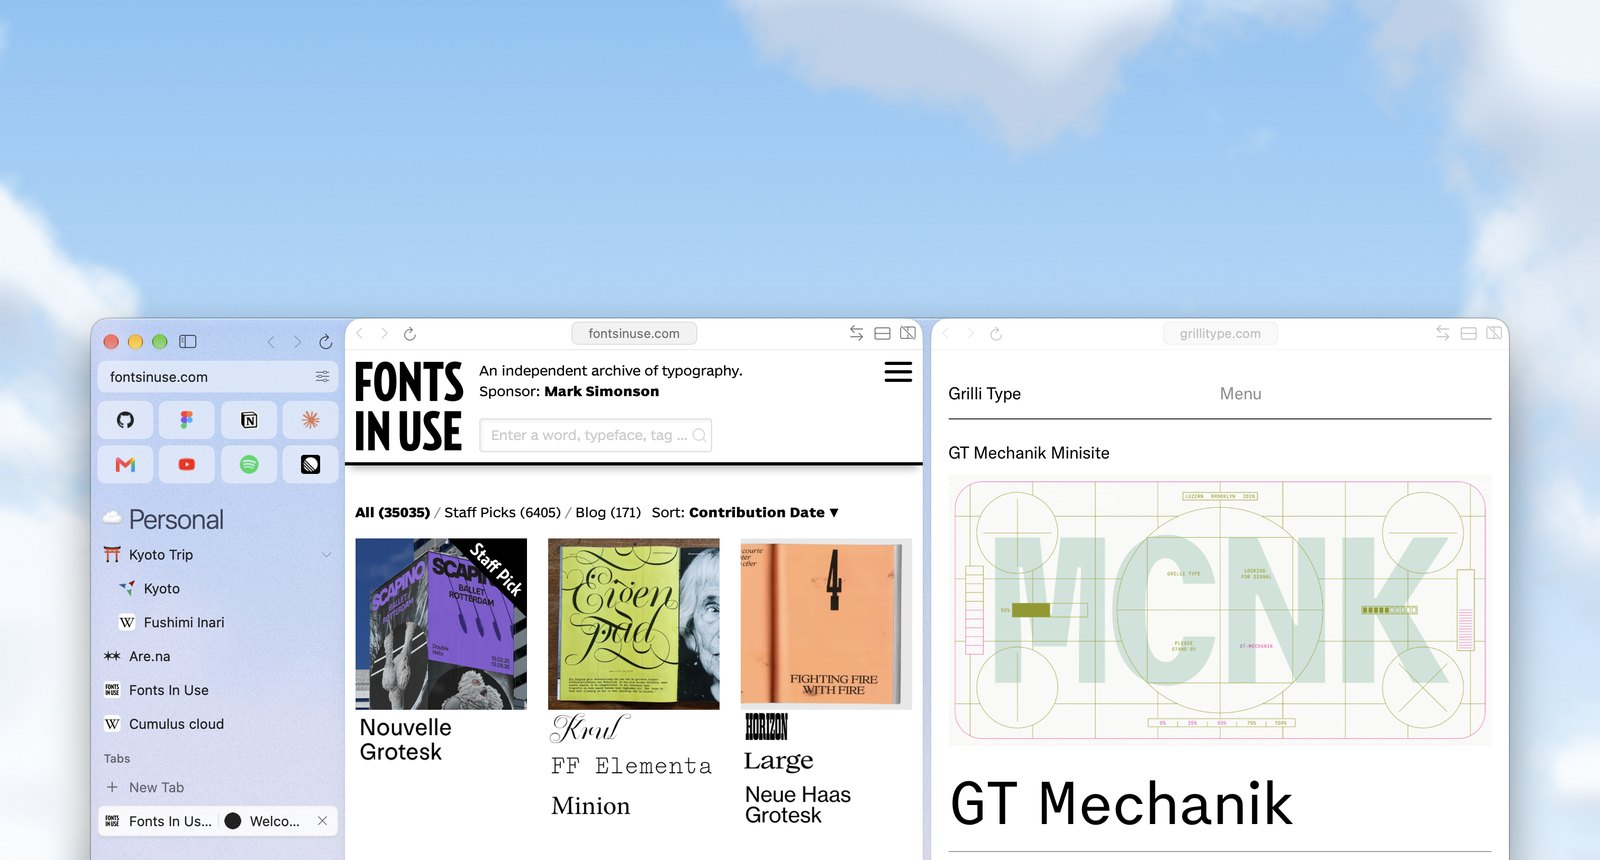
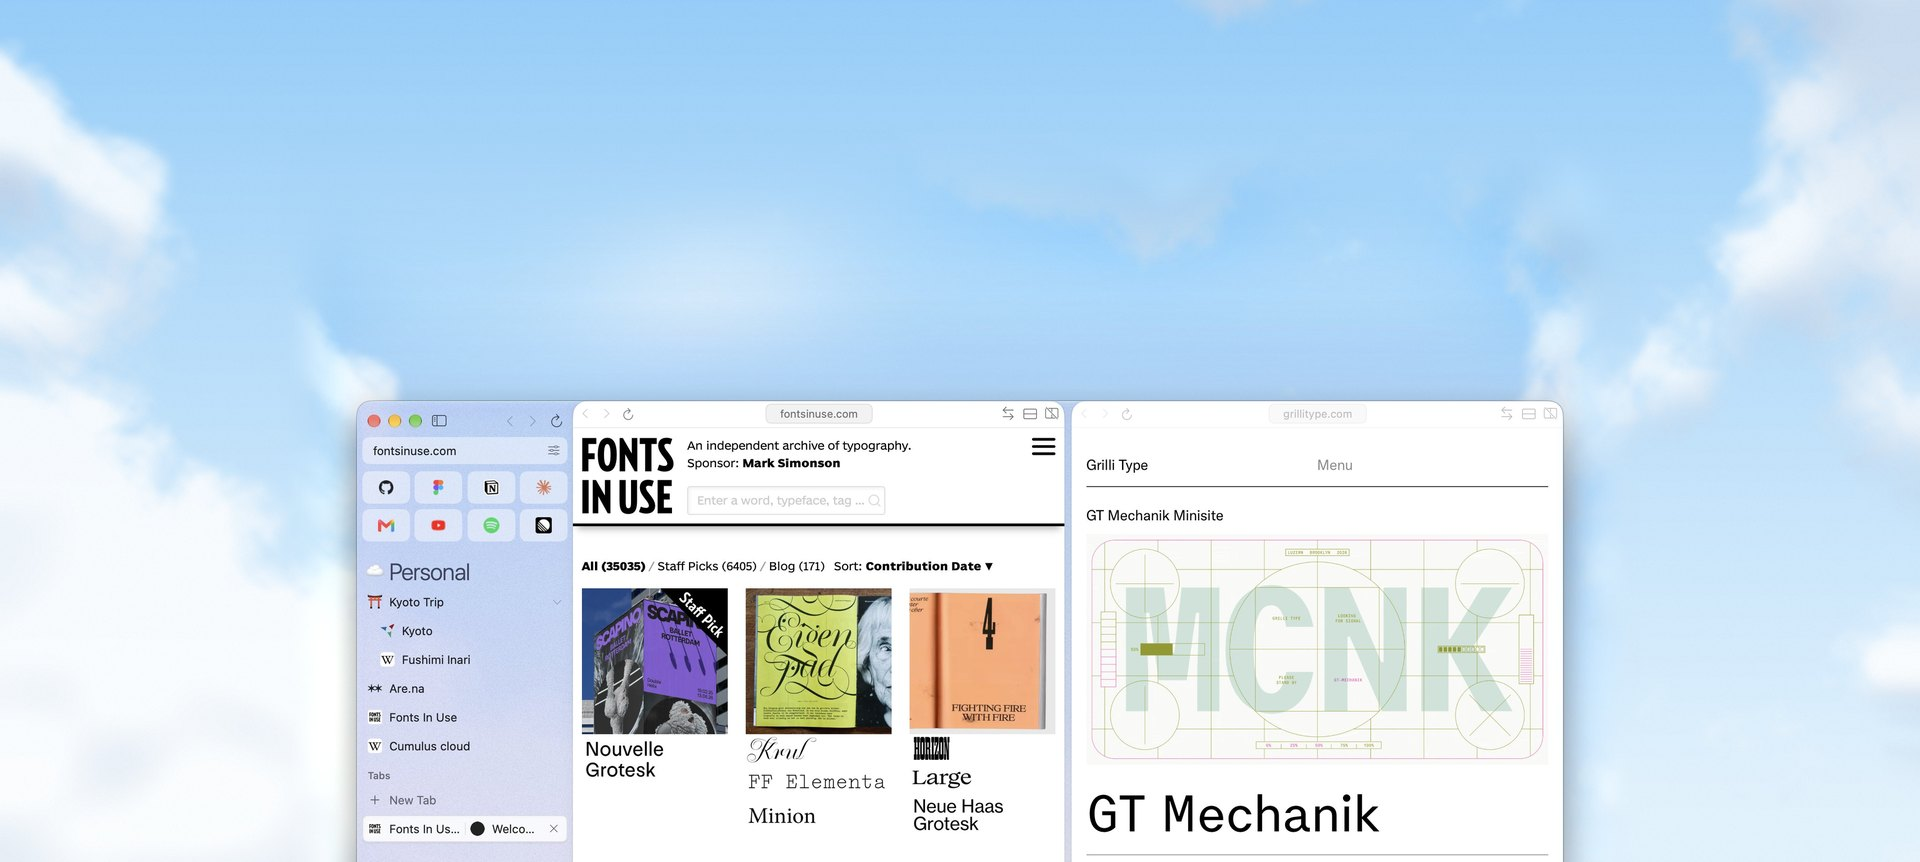
feat: the site is a size smaller throughout, the hero shows more sky around a smaller window, and the size chart sits beside its words

diff --git a/site/index.html b/site/index.html
@@ -22,7 +22,7 @@
 <meta name="twitter:image" content="https://zigzagbrowser.com/assets/og.png">
 <script type="application/ld+json">{"@context": "https://schema.org", "@type": "SoftwareApplication", "name": "Zigzag", "applicationCategory": "BrowserApplication", "operatingSystem": "macOS 15.4 or later", "description": "Zigzag is a fast, free web browser for Mac with spaces, a sidebar, split view and peek. Coming from Arc? Bring your spaces and pinned tabs over in one click.", "url": "https://zigzagbrowser.com/", "downloadUrl": "https://zigzagbrowser.com/download/", "image": "https://zigzagbrowser.com/assets/icon-512.png", "offers": {"@type": "Offer", "price": "0", "priceCurrency": "USD"}, "author": {"@type": "Person", "name": "Zigao Wang", "url": "https://zigao.wang"}, "license": "https://www.apache.org/licenses/LICENSE-2.0", "sameAs": ["https://github.com/ZigaoWang/zigzag"]}</script>
 <script type="application/ld+json">{"@context": "https://schema.org", "@type": "FAQPage", "mainEntity": [{"@type": "Question", "name": "Is Zigzag just an Arc copy?", "acceptedAnswer": {"@type": "Answer", "text": "Arc showed a lot of people that a browser could feel good, and Zigzag is openly inspired by that. But it’s built from scratch, on Safari’s engine instead of Chrome’s, with its own design, and things Arc never had: tabs that tidy themselves, built in ad blocking, and a password manager that imports from any browser. Zigzag isn’t affiliated with The Browser Company."}}, {"@type": "Question", "name": "Will Zigzag shut down like Arc?", "acceptedAnswer": {"@type": "Answer", "text": "It can’t be switched off. There’s no account, and the only server is the update feed. If it went away, Zigzag would keep working on your Mac. Security updates for the engine come straight from Apple with macOS."}}, {"@type": "Question", "name": "Do I need an account?", "acceptedAnswer": {"@type": "Answer", "text": "No. Download it and go."}}, {"@type": "Question", "name": "Is Zigzag finished?", "acceptedAnswer": {"@type": "Answer", "text": "Not yet. It’s in beta, which means it works well for everyday browsing, but some things are still being polished. Updates install automatically, so it keeps getting better on its own."}}, {"@type": "Question", "name": "Is it free?", "acceptedAnswer": {"@type": "Answer", "text": "Yes."}}, {"@type": "Question", "name": "Can I bring my stuff from Arc?", "acceptedAnswer": {"@type": "Answer", "text": "Yes, in one click: spaces, pinned tabs, Favorites, history, and passwords. Chrome, Safari, Dia, Edge, Brave, Vivaldi, Opera, Firefox, and Zen work too."}}, {"@type": "Question", "name": "Does it work with Chrome extensions?", "acceptedAnswer": {"@type": "Answer", "text": "Most popular ones, installed straight from the Chrome Web Store. Some can’t work outside Chrome, and Zigzag tells you upfront instead of breaking silently."}}, {"@type": "Question", "name": "Why Safari’s engine?", "acceptedAnswer": {"@type": "Answer", "text": "It’s already on your Mac, so Zigzag doesn’t have to ship one, and Apple fixes its security issues in macOS updates."}}, {"@type": "Question", "name": "Is my data private?", "acceptedAnswer": {"@type": "Answer", "text": "Yes. There’s no account, no analytics and no telemetry, and nothing about how you browse is sent to me. Zigzag checks zigzagbrowser.com once a day for updates, sending only its version. Passwords live in your Mac’s Keychain and sync only through your own iCloud. Everything Zigzag connects to on its own is listed in the README on GitHub."}}, {"@type": "Question", "name": "Is Zigzag open source?", "acceptedAnswer": {"@type": "Answer", "text": "Yes. The code is under the Apache License 2.0, on GitHub. Read it, build it, fork it. The Zigzag name and icon aren’t part of the license, so a fork needs its own."}}, {"@type": "Question", "name": "Which Macs does it run on?", "acceptedAnswer": {"@type": "Answer", "text": "macOS 15.4 or later."}}]}</script>
-<link rel="stylesheet" href="/assets/site.css?v=1796500000">
+<link rel="stylesheet" href="/assets/site.css?v=1796700000">
 </head>
 <body>
 <header class="hero">
@@ -34,7 +34,7 @@
   <div class="hero-text">
     <h1 class="tag">Feels great. Weighs nothing.</h1>
     <p class="sub">The lightweight browser for Mac. Free and open source.</p>
-    <div class="actions"><a class="button" href="/download">Download for Mac</a><a class="text-link" href="https://github.com/ZigaoWang/zigzag">Read the source</a></div>
+    <div class="actions"><a class="button" href="/download">Download for Mac</a><a class="text-link" href="https://github.com/ZigaoWang/zigzag">View on GitHub</a></div>
   </div>
 </header>
 <main>
@@ -75,8 +75,11 @@
   </section>
 
   <section class="weight">
+    <div class="weight-text">
     <h2>The lightweight browser.</h2>
     <p class="lede">Zigzag doesn’t ship its own engine. It uses the WebKit that’s already part of macOS, so the whole app is 17 MB.</p>
+    <p class="note">Size of each app in Applications, measured on one Mac in November 2026.</p>
+    </div>
     <ul class="bars">
       <li class="us"><span class="n"><img src="/assets/apps/zigzag.png" width="24" height="24" alt="">Zigzag</span><span class="track"><span class="fill" style="--w:1.2%"></span></span><span class="mb">17 MB</span></li>
       <li><span class="n"><img src="/assets/apps/orion.png" width="24" height="24" alt="">Orion</span><span class="track"><span class="fill" style="--w:37.9%"></span></span><span class="mb">554 MB</span></li>
@@ -85,7 +88,6 @@
       <li><span class="n"><img src="/assets/apps/dia.png" width="24" height="24" alt="">Dia</span><span class="track"><span class="fill" style="--w:93.6%"></span></span><span class="mb">1,369 MB</span></li>
       <li><span class="n"><img src="/assets/apps/chrome.png" width="24" height="24" alt="">Chrome</span><span class="track"><span class="fill" style="--w:100.0%"></span></span><span class="mb">1,463 MB</span></li>
     </ul>
-    <p class="note">Size of each app in Applications, measured on one Mac in November 2026.</p>
   </section>
 
   <section class="duo">
@@ -131,7 +133,7 @@
     <p class="fine">macOS 15.4 or later.</p>
   </section>
   <footer class="end">
-    <div class="foot-brand"><a class="foot-home" href="/" aria-label="Zigzag home"><span class="wm" role="img" aria-label="Zigzag"></span></a><p>The lightweight browser for Mac.</p></div>
+    <div class="foot-brand"><a class="foot-home" href="/" aria-label="Zigzag home"><img src="/assets/icon-64.png" width="28" height="28" alt=""><span class="wm" role="img" aria-label="Zigzag"></span></a><p>The lightweight browser for Mac.</p></div>
     <div><p class="foot-h">Zigzag</p><a href="/download">Download</a><a href="/release-notes">Release Notes</a><a href="#questions">Questions</a></div>
     <div><p class="foot-h">Source</p><a href="https://github.com/ZigaoWang/zigzag">GitHub</a><a href="https://github.com/ZigaoWang/zigzag/blob/main/LICENSE">License</a><a href="https://github.com/ZigaoWang/zigzag#privacy">Privacy</a></div>
     <div><p class="foot-h">Contact</p><a href="https://github.com/ZigaoWang/zigzag/issues">Report a bug</a><a href="mailto:a@zigao.wang">a@zigao.wang</a></div>

diff --git a/site/assets/site.css b/site/assets/site.css
@@ -337,7 +337,7 @@ main { max-width: 1160px; margin: 0 auto; padding: 0 24px; }
 .weight .bars .us .fill { background: #2F6FD0; }
 .weight .bars .us, .weight .bars .us .mb { font-weight: 600; color: var(--ink); }
 .weight .note { max-width: none; margin: 16px 0 0; text-align: left; }
-.foot-home { display: inline-block; text-decoration: none; } .foot-home .wm { height: 18px; display: block; }
+.foot-home { text-decoration: none; }
 @media (max-width: 760px) { .weight .bars li { grid-template-columns: 92px 1fr 72px; gap: 10px; font-size: 14px; } }
 
 /* The hero, pared back: a headline, one line, one button, and a quiet link. */
@@ -347,3 +347,35 @@ main { max-width: 1160px; margin: 0 auto; padding: 0 24px; }
 .hero .actions { gap: 24px; margin-top: 32px; }
 .text-link { font-size: 15px; font-weight: 500; color: #1F2D40; text-decoration: none; }
 .text-link::after { content: " →"; } .text-link:hover { text-decoration: underline; text-underline-offset: 4px; }
+
+/* Scale: everything a size smaller, so the page reads at a glance. */
+main { max-width: 1080px; }
+.hero { height: min(calc(var(--text) + 24vw), 1000px);
+  background: #93C2F1 image-set(url(/assets/hero-1600.jpg?v=2) 1x, url(/assets/hero.jpg?v=2) 2x) center bottom / 100% auto no-repeat; }
+.hero::before { bottom: calc(44.9vw - 160px); }
+.hero .tag, .hero h1.tag { font-size: clamp(38px, 4.4vw, 58px); }
+.nav { max-width: 1080px; }
+.feature > h2, .weight h2, .private > h2 { font-size: clamp(26px, 2.6vw, 32px); }
+.feature > .lede, .weight .lede, .intro p:not(.label) { font-size: 16px; }
+.feature, .duo, .story, .trio, .weight { margin-bottom: 88px; }
+.feat figcaption { font-size: 14px; } .feat figcaption b { font-size: 15px; }
+.feat .stage.comp { height: 260px; }
+.tile figcaption, .tile.list p { font-size: 14px; }
+.duo h2, .story h2 { font-size: 22px; } .duo p { font-size: 15px; } .letter p { font-size: 15px; }
+.story .faq summary { font-size: 15px; }
+.pitch.sky-card { padding: 56px 24px; } .sky-card h2 { font-size: clamp(26px, 3vw, 36px); }
+/* Size, beside its explanation: compact rows, like a benchmark table. */
+.weight { display: grid; grid-template-columns: 4fr 7fr; gap: 56px; align-items: center; max-width: none; }
+.weight .lede { margin-top: 10px; }
+.weight .note { margin-top: 14px; font-size: 12px; }
+.weight .bars { margin: 0; }
+.weight .bars li { grid-template-columns: 104px 1fr 72px; gap: 14px; padding: 7px 0; font-size: 14px; border-top: 0; }
+.weight .bars .n img { width: 20px; height: 20px; }
+.weight .bars .track { height: 8px; }
+.foot-home { display: inline-flex; align-items: center; gap: 8px; } .foot-home img { width: 30px; height: 30px; margin: -3px -2px -3px -3px; }
+.foot-home .wm { height: 16px; }
+@media (max-width: 760px) {
+  .hero { height: calc(var(--text) + 62vw); background-size: 260% auto; background-position: 32% bottom; }
+  .hero::before { bottom: calc(116.7vw - 160px); }
+  .weight { grid-template-columns: 1fr; gap: 24px; }
+}

diff --git a/site/release-notes/index.html b/site/release-notes/index.html
@@ -16,7 +16,7 @@
 <meta name="twitter:image" content="https://zigzagbrowser.com/assets/og.png">
 <link rel="icon" type="image/png" href="/assets/favicon-64.png">
 <link rel="apple-touch-icon" href="/assets/icon-256.png">
-<link rel="stylesheet" href="/assets/site.css?v=1796500000">
+<link rel="stylesheet" href="/assets/site.css?v=1796700000">
 </head>
 <body>
 <header class="bar"><a class="bar-home" href="/" aria-label="Zigzag home"><img src="/assets/icon-64.png" width="28" height="28" alt=""><span class="wm" role="img" aria-label="Zigzag"></span></a><span class="bar-end"><a class="gh" href="https://github.com/ZigaoWang/zigzag" aria-label="Zigzag on GitHub" title="Zigzag on GitHub"><svg viewBox="0 0 16 16" aria-hidden="true"><path fill="currentColor" d="M8 0C3.58 0 0 3.58 0 8c0 3.54 2.29 6.53 5.47 7.59.4.07.55-.17.55-.38 0-.19-.01-.82-.01-1.49-2.01.37-2.53-.49-2.69-.94-.09-.23-.48-.94-.82-1.13-.28-.15-.68-.52-.01-.53.63-.01 1.08.58 1.23.82.72 1.21 1.87.87 2.33.66.07-.52.28-.87.51-1.07-1.78-.2-3.64-.89-3.64-3.95 0-.87.31-1.59.82-2.15-.08-.2-.36-1.02.08-2.12 0 0 .67-.21 2.2.82.64-.18 1.32-.27 2-.27.68 0 1.36.09 2 .27 1.53-1.04 2.2-.82 2.2-.82.44 1.1.16 1.92.08 2.12.51.56.82 1.27.82 2.15 0 3.07-1.87 3.75-3.65 3.95.29.25.54.73.54 1.48 0 1.07-.01 1.93-.01 2.2 0 .21.15.46.55.38A8.013 8.013 0 0016 8c0-4.42-3.58-8-8-8z"/></svg></a><a class="button small" href="/download">Download</a></span></header>

diff --git a/site/download/index.html b/site/download/index.html
@@ -16,7 +16,7 @@
 <meta name="twitter:image" content="https://zigzagbrowser.com/assets/og.png">
 <link rel="icon" type="image/png" href="/assets/favicon-64.png">
 <link rel="apple-touch-icon" href="/assets/icon-256.png">
-<link rel="stylesheet" href="/assets/site.css?v=1796500000">
+<link rel="stylesheet" href="/assets/site.css?v=1796700000">
 </head>
 <body>
 <header class="bar"><a class="bar-home" href="/" aria-label="Zigzag home"><img src="/assets/icon-64.png" width="28" height="28" alt=""><span class="wm" role="img" aria-label="Zigzag"></span></a><span class="bar-end"><a class="gh" href="https://github.com/ZigaoWang/zigzag" aria-label="Zigzag on GitHub" title="Zigzag on GitHub"><svg viewBox="0 0 16 16" aria-hidden="true"><path fill="currentColor" d="M8 0C3.58 0 0 3.58 0 8c0 3.54 2.29 6.53 5.47 7.59.4.07.55-.17.55-.38 0-.19-.01-.82-.01-1.49-2.01.37-2.53-.49-2.69-.94-.09-.23-.48-.94-.82-1.13-.28-.15-.68-.52-.01-.53.63-.01 1.08.58 1.23.82.72 1.21 1.87.87 2.33.66.07-.52.28-.87.51-1.07-1.78-.2-3.64-.89-3.64-3.95 0-.87.31-1.59.82-2.15-.08-.2-.36-1.02.08-2.12 0 0 .67-.21 2.2.82.64-.18 1.32-.27 2-.27.68 0 1.36.09 2 .27 1.53-1.04 2.2-.82 2.2-.82.44 1.1.16 1.92.08 2.12.51.56.82 1.27.82 2.15 0 3.07-1.87 3.75-3.65 3.95.29.25.54.73.54 1.48 0 1.07-.01 1.93-.01 2.2 0 .21.15.46.55.38A8.013 8.013 0 0016 8c0-4.42-3.58-8-8-8z"/></svg></a></span></header>

diff --git a/site/404.html b/site/404.html
@@ -6,7 +6,7 @@
 <title>Page not found</title>
 <meta name="robots" content="noindex">
 <link rel="icon" type="image/png" href="/assets/favicon-64.png">
-<link rel="stylesheet" href="/assets/site.css?v=1796500000">
+<link rel="stylesheet" href="/assets/site.css?v=1796700000">
 </head>
 <body>
 <header class="bar"><a class="bar-home" href="/" aria-label="Zigzag home"><img src="/assets/icon-64.png" width="28" height="28" alt=""><span class="wm" role="img" aria-label="Zigzag"></span></a><span class="bar-end"><a class="gh" href="https://github.com/ZigaoWang/zigzag" aria-label="Zigzag on GitHub" title="Zigzag on GitHub"><svg viewBox="0 0 16 16" aria-hidden="true"><path fill="currentColor" d="M8 0C3.58 0 0 3.58 0 8c0 3.54 2.29 6.53 5.47 7.59.4.07.55-.17.55-.38 0-.19-.01-.82-.01-1.49-2.01.37-2.53-.49-2.69-.94-.09-.23-.48-.94-.82-1.13-.28-.15-.68-.52-.01-.53.63-.01 1.08.58 1.23.82.72 1.21 1.87.87 2.33.66.07-.52.28-.87.51-1.07-1.78-.2-3.64-.89-3.64-3.95 0-.87.31-1.59.82-2.15-.08-.2-.36-1.02.08-2.12 0 0 .67-.21 2.2.82.64-.18 1.32-.27 2-.27.68 0 1.36.09 2 .27 1.53-1.04 2.2-.82 2.2-.82.44 1.1.16 1.92.08 2.12.51.56.82 1.27.82 2.15 0 3.07-1.87 3.75-3.65 3.95.29.25.54.73.54 1.48 0 1.07-.01 1.93-.01 2.2 0 .21.15.46.55.38A8.013 8.013 0 0016 8c0-4.42-3.58-8-8-8z"/></svg></a><a class="button small" href="/download">Download</a></span></header>

diff --git a/scripts/changelog-page.py b/scripts/changelog-page.py
@@ -64,7 +64,7 @@ page = f"""<!doctype html>
 <meta name="twitter:image" content="https://zigzagbrowser.com/assets/og.png">
 <link rel="icon" type="image/png" href="/assets/favicon-64.png">
 <link rel="apple-touch-icon" href="/assets/icon-256.png">
-<link rel="stylesheet" href="/assets/site.css?v=1796500000">
+<link rel="stylesheet" href="/assets/site.css?v=1796700000">
 </head>
 <body>
 <header class="bar"><a class="bar-home" href="/" aria-label="Zigzag home"><img src="/assets/icon-64.png" width="28" height="28" alt=""><span class="wm" role="img" aria-label="Zigzag"></span></a><span class="bar-end"><a class="gh" href="https://github.com/ZigaoWang/zigzag" aria-label="Zigzag on GitHub" title="Zigzag on GitHub"><svg viewBox="0 0 16 16" aria-hidden="true"><path fill="currentColor" d="M8 0C3.58 0 0 3.58 0 8c0 3.54 2.29 6.53 5.47 7.59.4.07.55-.17.55-.38 0-.19-.01-.82-.01-1.49-2.01.37-2.53-.49-2.69-.94-.09-.23-.48-.94-.82-1.13-.28-.15-.68-.52-.01-.53.63-.01 1.08.58 1.23.82.72 1.21 1.87.87 2.33.66.07-.52.28-.87.51-1.07-1.78-.2-3.64-.89-3.64-3.95 0-.87.31-1.59.82-2.15-.08-.2-.36-1.02.08-2.12 0 0 .67-.21 2.2.82.64-.18 1.32-.27 2-.27.68 0 1.36.09 2 .27 1.53-1.04 2.2-.82 2.2-.82.44 1.1.16 1.92.08 2.12.51.56.82 1.27.82 2.15 0 3.07-1.87 3.75-3.65 3.95.29.25.54.73.54 1.48 0 1.07-.01 1.93-.01 2.2 0 .21.15.46.55.38A8.013 8.013 0 0016 8c0-4.42-3.58-8-8-8z"/></svg></a><a class="button small" href="/download">Download</a></span></header>
